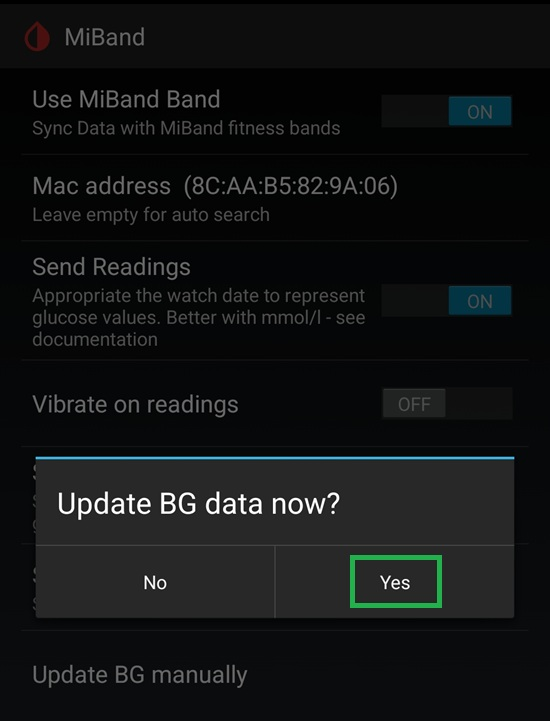
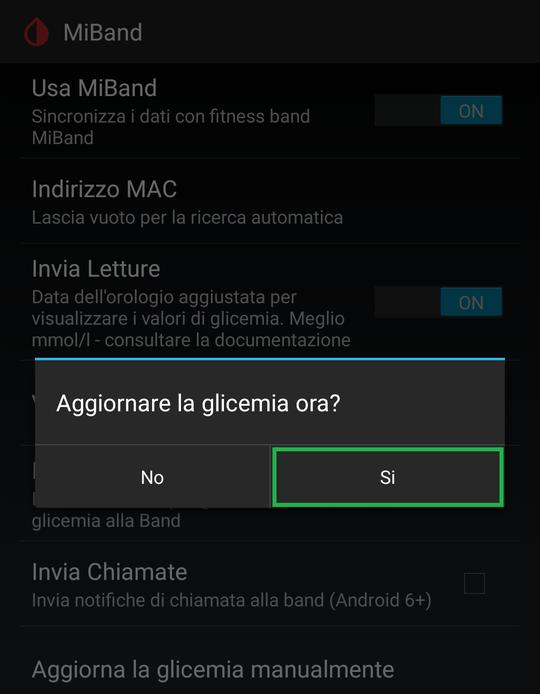
Update

diff --git a/docs/documentation/nightscout/monitor-nightscout-m5stack.md b/docs/documentation/nightscout/monitor-nightscout-m5stack.md
@@ -439,11 +439,11 @@ In questa modalità l'M5Stack si presenta al telefono come un braccialetto Mi Ba
 
 ![](images/monitor-nightscout-m5stack/image_069.jpg)
 
-1. In xDrip, apri **Impostazioni** → **Data Sync** → **Auto configure** (configurazione tramite codice a barre):
+1. In xDrip, apri **Impostazioni** → **Configurazione automatica** (nella sezione **Sincronizzazione dati**) e tocca **Camera**:
 
 ![](images/monitor-nightscout-m5stack/image_070.png)
 
-2. Inquadra il codice QR sullo schermo dell'M5Stack e conferma l'importazione toccando **Yes**:
+2. Inquadra il codice QR sullo schermo dell'M5Stack e conferma l'importazione:
 
 ![](images/monitor-nightscout-m5stack/image_071.png)
 
@@ -451,19 +451,19 @@ Quando l'autenticazione riesce, l'icona Bluetooth diventa blu fissa e nella pagi
 
 > ℹ **Nota**: se il codice QR non è più visibile, lo ritrovi in qualsiasi momento dal menu del dispositivo: **Bluetooth** → **xDrip Setup QR**.
 
-**Prova subito il collegamento.** Per non aspettare il prossimo ciclo di 5 minuti, invia subito una lettura: in xDrip apri **Impostazioni** → **Smart Watch Features** → **Mi Band**, scorri fino a **Update BG manually** e alla domanda **Update BG data now?** tocca **Yes**:
+**Prova subito il collegamento.** Per non aspettare il prossimo ciclo di 5 minuti, invia subito una lettura: in xDrip apri **Impostazioni** → **Caratteristiche Collegamenti Smart Watch** → **MiBand**, scorri fino a **Aggiorna la glicemia manualmente** e alla domanda **Aggiornare la glicemia ora?** tocca **Si**:
 
 ![](images/monitor-nightscout-m5stack/image_072.jpg)
 
 Il valore comparirà subito sul quadrante; per vedere freccia di tendenza e delta servono alcune letture in più.
 
-**Se il QR non funziona — configurazione manuale.** In xDrip apri **Impostazioni** → **Smart Watch Features** → **Mi Band**:
+**Se il QR non funziona — configurazione manuale.** In xDrip apri **Impostazioni** → **Caratteristiche Collegamenti Smart Watch** → **MiBand**:
 
-1. Attiva **Use MiBand Band** e lascia **vuota** la chiave di autenticazione (la genera xDrip):
+1. Attiva **Usa MiBand** e lascia **vuota** la chiave di autenticazione (la genera xDrip):
 
 ![](images/monitor-nightscout-m5stack/image_073.jpg)
 
-2. Se il campo **Mac address** contiene un indirizzo di un abbinamento precedente, cancellalo completamente e tocca **OK** (vuoto = ricerca automatica), altrimenti xDrip continuerà a cercare il vecchio dispositivo:
+2. Se il campo **Indirizzo MAC** contiene un indirizzo di un abbinamento precedente, cancellalo completamente e tocca **OK** (vuoto = ricerca automatica), altrimenti xDrip continuerà a cercare il vecchio dispositivo:
 
 ![](images/monitor-nightscout-m5stack/image_074.jpg)
 
@@ -471,7 +471,7 @@ Il valore comparirà subito sul quadrante; per vedere freccia di tendenza e delt
 
 ![](images/monitor-nightscout-m5stack/image_075.jpg)
 
-Poi prova il collegamento con **Update BG manually** come descritto sopra.
+Poi prova il collegamento con **Aggiorna la glicemia manualmente** come descritto sopra.
 
 > ℹ **Nota sull'orologio**: xDrip per Android non sincronizza l'ora: impostala da **Menu** → **Set time**. Il Core2 la mantiene anche da spento; sui modelli Basic e Fire (senza orologio interno a batteria) dovrai reinserirla dopo ogni spegnimento completo.
 

diff --git a/docs/documentation/alexa-siri/alexa-con-app-dexcom-o-xdrip.md b/docs/documentation/alexa-siri/alexa-con-app-dexcom-o-xdrip.md
@@ -71,19 +71,7 @@ Sugarmate genera un indirizzo email da usare come follower: copialo e clicca **F
 
 ## 4. Aggiungi Sugarmate come follower Dexcom
 
-**Se usi xDrip:** vai in **Impostazioni → Cloud Upload → Dexcom Share Server → Gestire Follower**. Clicca **Invite a follower**, inserisci come nome `Sugarmate`, il tuo nome e l'email di Sugarmate copiata prima. Clicca **Send Invite**.
-
-Nelle impostazioni di **Upload in Dexcom Share Server**, tocca **Gestire Follower**:
-
-![](images/alexa-con-app-dexcom-o-xdrip/image_013.png)
-
-Tocca **INVITE A FOLLOWER**:
-
-![](images/alexa-con-app-dexcom-o-xdrip/image_012.png)
-
-Compila **Followers Name** (`Sugarmate`), **Your display name** e **Followers Email** (l'indirizzo copiato da Sugarmate), poi tocca **SEND INVITE**:
-
-![](images/alexa-con-app-dexcom-o-xdrip/image_011.png)
+**Se usi xDrip:** assicurati che xDrip carichi le letture sui server Dexcom (**Impostazioni → Caricamento nel Cloud → Upload in Dexcom Share Server**, con **Carica valori di glicemia in Dexcom Share** attivo e le credenziali del tuo account Dexcom). Le versioni recenti di xDrip non hanno più la voce **Gestire Follower**: per invitare Sugarmate come follower usa l'app Dexcom (o il tuo account Dexcom su un altro telefono) come descritto qui sotto, con lo stesso account su cui xDrip carica i dati.
 
 **Se usi l'app Dexcom ufficiale (G6, G7):** apri l'app, clicca sull'icona in alto a destra, poi sul pulsante di aggiunta follower. Inserisci l'email di Sugarmate e invia l'invito.
 

diff --git a/docs/documentation/amazfit/smartwatch-amazfit-zepp-os.md b/docs/documentation/amazfit/smartwatch-amazfit-zepp-os.md
@@ -22,7 +22,7 @@ Segui la [guida base di installazione](../xdrip/installare-xdrip-android). **Non
 Assicurati di avere una versione di xDrip non precedente al 10 luglio 2022. Per aggiornare, vai su [`https://github.com/NightscoutFoundation/xDrip/releases`](https://github.com/NightscoutFoundation/xDrip/releases).
 
 Poi:
-1. Vai in **Menu → Caratteristiche → Smartwatch → MiBand** e **disabilita** l'opzione **Usa MiBand** (la vecchia integrazione diretta non funziona con i dispositivi Zepp OS).
+1. Vai in **Menu → Impostazioni → Caratteristiche Collegamenti Smart Watch → MiBand** e **disabilita** l'opzione **Usa MiBand** (la vecchia integrazione diretta non funziona con i dispositivi Zepp OS).
 
 ![](images/smartwatch-amazfit-zepp-os/image_001.png)
 
@@ -30,7 +30,7 @@ Poi:
 
 ![](images/smartwatch-amazfit-zepp-os/image_003.png)
 
-2. Vai in **Menu → Impostazioni → Inter-app settings** e abilita **Servizio di trasmissione API** (in fondo alla pagina).
+2. Vai in **Menu → Impostazioni → Impostazioni Inter-app** e abilita **Servizio di Trasmissione API** (in fondo alla pagina).
 
 ![](images/smartwatch-amazfit-zepp-os/image_004.png)
 

diff --git a/docs/documentation/juggluco/juggluco-xdrip.md b/docs/documentation/juggluco/juggluco-xdrip.md
@@ -175,11 +175,11 @@ Se non hai ancora xDrip, installalo seguendo la [guida base](../xdrip/installare
 
 Nell'app xDrip, scegli come sorgente dati **App Libre patchata** — questa è l'opzione che riceve i dati da Juggluco.
 
-Nell'elenco delle sorgenti dati di xDrip, seleziona **Libre2 Patched (App LLink patchata)**:
+Nella configurazione guidata di xDrip scegli **Libre**, poi **Libre2 App modificata** (nell'elenco completo delle sorgenti la stessa voce si chiama **Libre (patched App)**):
 
 ![](images/juggluco-xdrip/image_027.png)
 
-Se non ricevi le letture di Juggluco in xDrip, vai nel menù di xDrip e fai **Avvia nuovo sensore (non avviato oggi)**.
+Se non ricevi le letture di Juggluco in xDrip, vai nel menù di xDrip, tocca **Inizializza Sensore** → **INIZIALIZZA SENSORE** e rispondi **NON OGGI**.
 
 > ℹ Puoi applicare una correzione di calibrazione tra −40 e +20 mg/dL se il sensore non è ben allineato con la glicemia capillare. Esegui la calibrazione **solo a glicemia stabile, nel range 80–140 mg/dL**.
 

diff --git a/docs/documentation/android/glicemia-android-wear-xdrip.md b/docs/documentation/android/glicemia-android-wear-xdrip.md
@@ -39,7 +39,7 @@ Apri il menù di xDrip e vai in **Impostazioni**:
 
 ![](images/glicemia-android-wear-xdrip/image_004.png)
 
-Apri **Caratteristiche Collegamenti Smartwatch**:
+Apri **Caratteristiche Collegamenti Smart Watch**:
 
 ![](images/glicemia-android-wear-xdrip/image_005.png)
 
